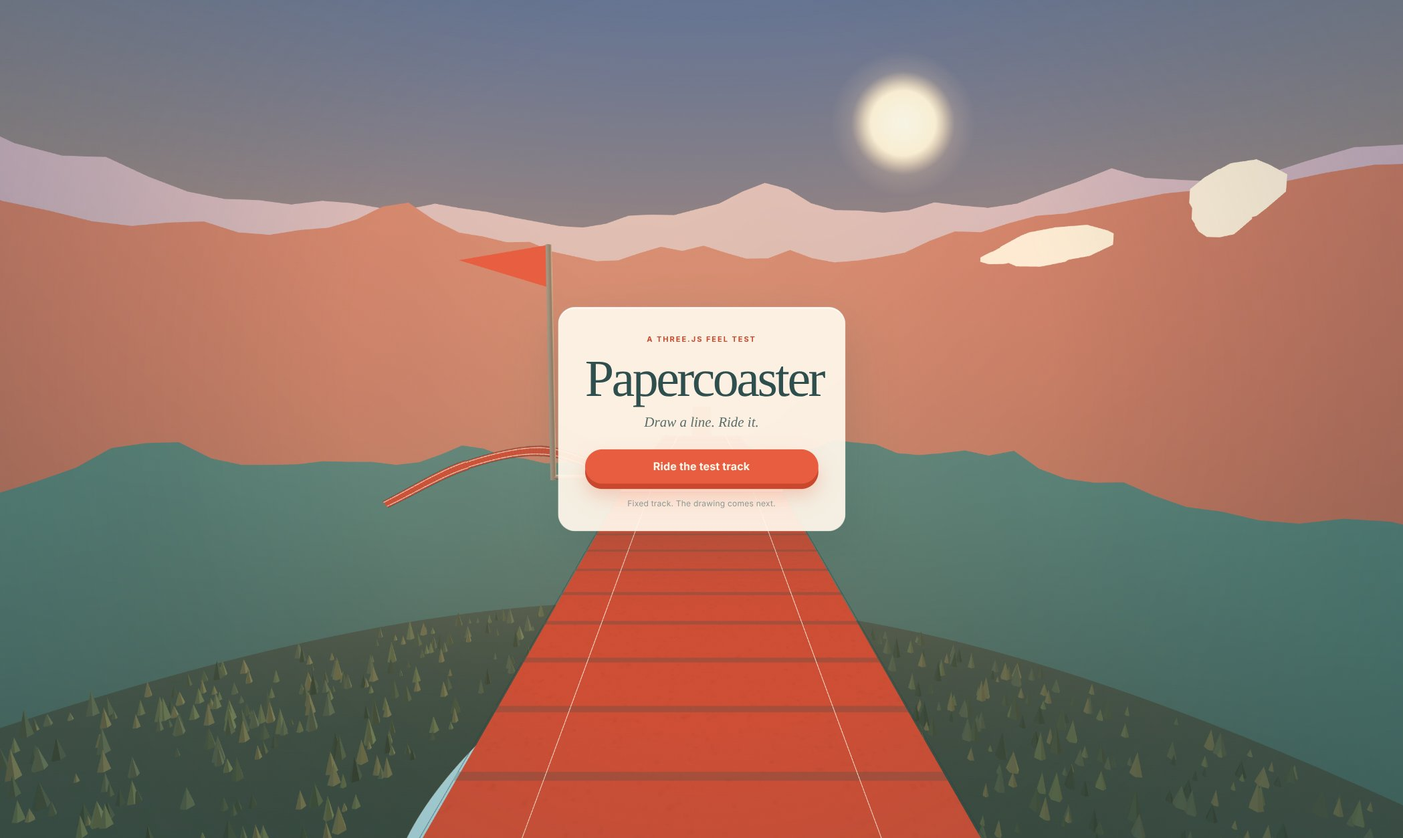
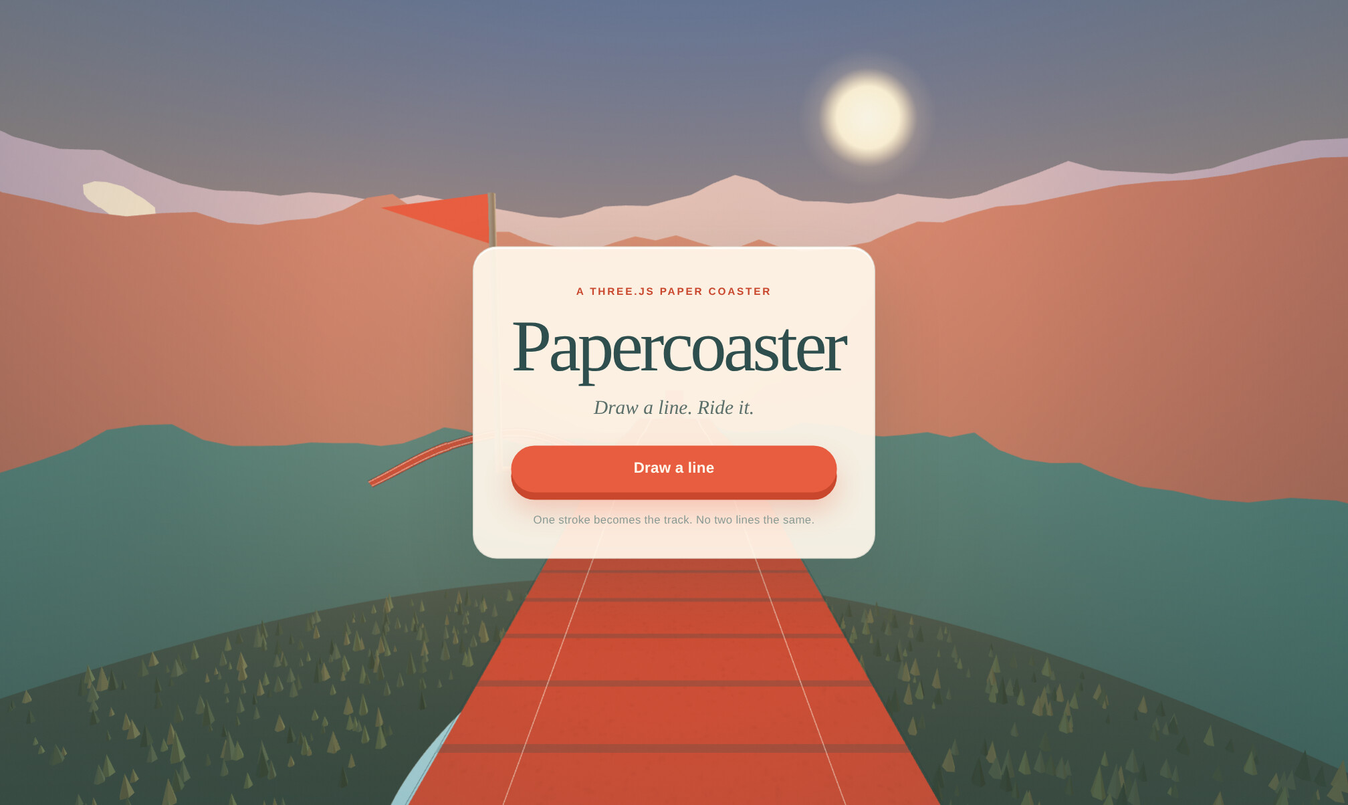
docs: record the drawing layer

diff --git a/docs/design.md b/docs/design.md
@@ -4,7 +4,7 @@
 
 A rollercoaster is a line with physics. Papercoaster makes the line the input: one stroke becomes the track, the terrain, and the ride. The player draws, then feels their own drawing in their stomach.
 
-The current build is the v0.1.0 feel test. The track is fixed. The drawing layer is the next milestone.
+The current build adds the drawing layer on top of the v0.1.0 feel test.
 
 ## The experience
 
@@ -13,26 +13,30 @@ The current build is the v0.1.0 feel test. The track is fixed. The drawing layer
 3. Ride it in first person.
 4. Share the track as a link.
 
-The feel test covers steps 2 and 3 with a fixed track.
+The drawing layer covers steps 1 to 3. Sharing is a later milestone.
 
 ## The track
 
 `src/track.js` owns the geometry.
 
+- `Track` is data-driven. `new Track(points)` accepts `Vector3` values or `[x, y, z]` arrays. `TEST_TRACK_POINTS` and `createTestTrack()` keep the fixed feel-test track for the `?t=` views and for comparison. They are not a user-facing mode.
 - Control points are a `CatmullRomCurve3` with `centripetal` parameterization. This avoids the overshoot that makes loops clip.
 - `arcLengthDivisions = 4000`. All sampling uses `getPointAt(u)` and `getTangentAt(u)`, so `u` is arc length.
+- The sample count scales with the track: `clamp(ceil(length * 8), 240, 1800)`. A short drawn line still gets enough frames for a smooth ribbon.
 - The ride advances `t` by `speed * dt / length`, so speed maps directly to distance.
-- Frames are built with parallel transport, not Frenet frames. Frenet frames twist and flip at the loop. Parallel transport projects the previous up vector onto the plane perpendicular to the tangent.
-- Bank comes from horizontal curvature: `clamp(curvature * 24^2 * 0.01 * horizontal, -0.6, 0.6)`. The banked up vector is the transport up rotated toward the right vector.
+- A drawn side-view track has `x = 0` at every point. These planar tracks use the in-plane normal `up = normalize(0, tangent.z, -tangent.y)` and `right = +X`, with zero bank. This keeps a loop smooth through vertical tangents. Parallel transport has a degenerate projection at a vertical tangent, and the bank formula spikes when the heading flips, so both are wrong for this case.
+- Tracks with depth (the test track, and any later stroke with world X) still use parallel transport. Frenet frames twist and flip at the loop, so they are never used. Parallel transport projects the previous up vector onto the plane perpendicular to the tangent.
+- Bank for depth tracks comes from horizontal curvature: `clamp(curvature * 24^2 * 0.01 * horizontal, -0.6, 0.6)`. The banked up vector is the transport up rotated toward the right vector.
 - The ribbon is 2.6 units wide. The rails sit at ±0.82. The ties are thin quads every 4 samples. The start band is a cream quad from `u = 0.035` to `0.0375`.
 - The track uses `MeshBasicMaterial` with a procedural paper texture. A lit material goes dark at the top of the loop, which kills the read. Flat paper shading keeps the coral consistent upside down.
+- `Track.dispose()` releases every child geometry, every material, and any material texture. A redraw builds the next track before disposing the old one, so a new line never inherits stale buffers or a canvas texture.
 
 ## The ride
 
 `src/ride.js` owns the camera.
 
 - Speed comes from energy conservation: `v = sqrt(max(vMin^2, v0^2 + 2g(h0 - h)))`, smoothed with `1 - exp(-dt * 4)`, with light drag and a 52 m/s cap. The minimum speed is a deliberate cheat so loops always complete.
-- The camera sits 2.2 units above the track. It looks ahead by `clamp(0.02 + speed * 0.0008, 0.02, 0.06)` of the track, and its up vector is the track's banked up.
+- The camera sits 2.2 units above the track. It looks ahead by `clamp(0.02 + speed * 0.0008, 0.02, 0.06)` of the track, and its up vector is the track's up. For a planar drawn track that up comes from the in-plane normal, so a drawn loop rolls the camera through upside down without banking the ribbon.
 - FOV is `68 + (speed / 52) * 16`. The interpolation is frame-rate independent.
 - Comfort mode blends the up vector toward world up by 0.68, projects it perpendicular to the view, and holds the FOV at 68. It is the horizon lock for motion-sensitive riders.
 - The idle camera bobs at the start line. The debug freeze (`?t=`) uses a nominal speed, so the FOV and bank are representative.
@@ -47,7 +51,7 @@ The feel test covers steps 2 and 3 with a fixed track.
 - River: a ribbon built from a `CatmullRomCurve3` on the valley floor, with cream bank lines.
 - Forest: 2,200 instanced cones with per-instance colors, scattered inside the near ring and kept away from the river.
 - Clouds: flat cream clusters of low-poly spheres, placed high and far so they do not block the track.
-- Start flag: a small pole on an outrigger at the track's edge. It is hard-coded to the test track's start. The drawing layer must move or remove it.
+- Start flag: a small pole on an outrigger. `placeStartFlag(track)` puts it on the start band frame at `u = 0.035`, along the frame's right vector at `TRACK_WIDTH / 2 + 1.6`, and orients the outrigger with the frame basis. The flag group is retained so it moves with each drawn track.
 - Lights: a warm hemisphere, a key directional, and a cool fill. Most paper surfaces are `MeshBasicMaterial`; the forest and ground are lit.
 
 ## The look
@@ -56,34 +60,36 @@ The feel test covers steps 2 and 3 with a fixed track.
 - No external assets. Textures are canvas-generated. Geometry is procedural.
 - The accent is coral. The track owns it. Everything else is a supporting color.
 - Fog is `FogExp2(0xffd3a3, 0.0015)`. The paper layers stay crisp, then fade into the sky.
-- The UI is a cream card with a serif title, a coral button, a speed pill, a progress bar, and a mute control.
+- The UI is a cream card with a serif title, a coral button, a speed pill, a progress bar, and a mute control. The draw screen is ruled paper with a coral stroke and a cream tool card.
 
 ## The drawing layer
 
-The plan is in `docs/next.md`. The key design decisions:
+`src/draw.js` owns the screen. `src/stroke.js` owns the math and has no DOM access.
 
-- Draw in a side view. Normalize the canvas to `u` left to right and `v` bottom to top. Map `z = lerp(-30, 170, u)`, `y = lerp(6, 70, v)`, and `x = 0`. The world center is around `z = 50`; the ground is at `y = -75`. This is a starting rule; clamp the mapped points to the valley.
-- A side-view track has no horizontal curvature, so v1 has no banked turns. The current bank formula should be quiet at the loop because the heading flip happens where the horizontal factor is near zero, but test the loop entry and exit for a hard roll. A later milestone can add depth by mapping a second input (pressure, stroke speed, or a slider) to world X.
-- The start band is already track-relative. Only the flag needs the start-band placement.
-- The draw screen is pointer and touch. The buttons and the end screen are keyboard accessible.
-- `?t=` works on a drawn track only in the same session. The stroke is not encoded yet; sharing is a later milestone.
+- The intro card opens the draw screen. The overlay canvas captures one primary pointer stroke with pointer capture. The stroke is pointer and touch only; the buttons are native and keyboard accessible.
+- The draw screen has Clear and Ride. Clear removes the stroke and returns to the draw state. Ride builds a new `Track`, disposes the old one, moves the flag, assigns `ride.track`, and restarts. The end screen has Redraw and Ride again.
+- While the draw screen is open, the 3D scene is paused. The overlay covers it, so rendering the diorama underneath would only spend frames.
+- The pipeline drops near-duplicate samples (0.75 canvas px), smooths with two Chaikin passes, resamples to 2 world units, and maps the side view to the valley: `z = lerp(-30, 170, u)`, `y = lerp(6, 70, v)`, `x = 0`. The world center is around `z = 50`; the ground is at `y = -75`.
+- A stroke is rejected if it leaves the canvas, has a segment longer than 40 world units, or measures less than 60 world units. Flat strokes are allowed and produce a calm ride. The rejection reason is shown under the buttons.
+- The single stroke rule is enforced after a valid stroke: further pointer input is ignored until Clear. An invalid attempt clears itself so the player can try again immediately.
+- `?t=` freezes the test track on load. The query is read again when a drawn track starts, so a same-session URL change freezes the drawn line. A reload cannot reconstruct the stroke yet.
 - The fixed points stay as `createTestTrack()` for tests and comparison, not a user-facing mode.
 
 ## Testing
 
-The automated gates are `npm run verify` (format, lint, build) and `npm run test` (Playwright). The smoke test covers the start screen, the ride start, the speed HUD, the progress bar, the three freeze views, and the full ride restart. It fails on any page error or console error during the start flow.
+The automated gates are `npm run verify` (format, lint, `node --test`, build) and `npm run test` (Playwright). The unit tests cover the stroke pipeline and its rejection rules. The smoke test covers the intro, the draw screen, a rejected short stroke, Clear, a drawn ride, the speed HUD, the progress bar, a same-session drawn freeze, the three test-track freeze views, and the full ride restart with R. It fails on any page error or console error during the draw and start flow.
 
-The visual composition is still checked by eye with the `?t` freezes. Background tabs throttle animation, so the ride feel must be checked in a foreground tab. When `src/stroke.js` lands, add `node --test` coverage and include it in `verify`.
+The visual composition is still checked by eye with the `?t` freezes and with drawn loop freezes. Background tabs throttle animation, so the ride feel must be checked in a foreground tab. The test-track freezes stay available through `?t=` after reload.
 
 ## Constraints
 
 - Single-page Vite app. No backend, no login, no external assets.
 - The ride is a spline plus a speed model. No physics engine.
-- The build, lint, format, and Playwright smoke test are the automated gates. The visual composition is still manual.
-- The app works on a laptop trackpad and on a touch screen. The ride is automatic; the drawing is the only input.
+- The build, lint, format, unit test, and Playwright smoke test are the automated gates. The visual composition is still manual.
+- The app works on a laptop trackpad and on a touch screen. The ride is automatic; drawing is the only input.
 
 ## Open questions
 
-- Should a side-view track get a synthetic bank from vertical curvature, or wait for a depth input?
+- Should side-view tracks get a synthetic bank from vertical curvature, or wait for a depth input? v1 uses zero bank and relies on the in-plane normal for the loop.
 - How should the drawn stroke be encoded in the URL, and how short can the link stay?
 - How should the thrill score weight speed, airtime, inversions, near misses, and smoothness?

diff --git a/docs/next.md b/docs/next.md
@@ -1,53 +1,47 @@
-# Next milestone: the drawing layer
+# Milestone: the drawing layer
+
+**Status:** landed on `feat/drawing-layer`, awaiting review. The next milestone is the thrill score and sharing.
 
 ## Goal
 
-Replace the fixed test track with a track drawn in one stroke, while keeping the current camera feel. The player draws a line, the line becomes a coaster, and the ride starts.
+Replace the fixed test track with a track drawn in one stroke, while keeping the camera feel. The player draws a line, the line becomes a coaster, and the ride starts.
 
 ## Definition of done
 
-- A new "Draw" screen captures one pointer stroke from press to release, including touch.
-- The stroke is smoothed, resampled, and mapped into a rideable spline.
-- The ride uses the same camera rig and speed model as the test track.
-- A stroke with a loop produces a loop. The camera goes upside down and the track stays coral.
-- The start band stays track-relative. The start flag is placed from the start band's frame.
-- `?t=` freezes work on the drawn track in the same session. A reload does not reconstruct the stroke yet.
-- `npm run verify` and `npm run test` pass.
-- The Playwright smoke test covers the new draw screen, the start flow, the three freeze views, and the full ride restart.
-- Clear, Redraw, Ride, and the end screen are keyboard accessible. The stroke itself is pointer or touch.
-- The README screenshots and `public/og.jpg` are updated if the hero visuals change.
+- [x] A Draw screen captures one pointer stroke from press to release, including touch.
+- [x] The stroke is smoothed, resampled, and mapped into a rideable spline.
+- [x] The ride uses the same camera rig and speed model as the test track.
+- [x] A stroke with a loop produces a loop. The camera goes upside down and the track stays coral.
+- [x] The start band is track-relative. The start flag is placed from the start band's frame.
+- [x] `?t=` freezes work on the drawn track in the same session. The query is read again when a drawn track starts. A reload does not reconstruct the stroke.
+- [x] `npm run verify` and `npm run test` pass.
+- [x] The Playwright smoke test covers the draw screen, the start flow, the three test-track freeze views, a drawn freeze, and the full ride restart.
+- [x] Clear, Redraw, Ride, and the end screen are keyboard accessible. The stroke itself is pointer or touch.
+- [ ] The README screenshots and `public/og.jpg` are updated if the hero visuals change. The start screenshot is updated; the social image still shows the same drop.
 
-## Build order
+## What landed
 
-1. **Make the track data-driven and disposable.** Move the fixed points out of the constructor into `TEST_TRACK_POINTS` and `createTestTrack()`. Add `constructor(points)`. Add `Track.dispose()` to release the ribbon, tie, rail, and line geometries, the materials, and the canvas texture. Every redraw otherwise leaks a texture and buffers.
-2. **Build the pure stroke module first.** Add `src/stroke.js` with no DOM access: drop near-duplicate points, smooth with Chaikin or a moving average, resample to even spacing, reject short or jumpy strokes, map the side view to world points, and return the point array. Add a `test:unit` script with `node --test` and include it in `verify` before any UI work.
-3. **Add the draw screen.** New `src/draw.js` plus markup and styles: full-screen overlay canvas, pointer capture, Draw, Clear, Redraw, and Ride. The start card becomes the intro. The stroke is pointer and touch only.
-4. **Map to 3D.** Normalize the canvas to `u` left to right and `v` bottom to top. Map `z = lerp(-30, 170, u)`, `y = lerp(6, 70, v)`, and `x = 0`. The world center is around `z = 50`; the ground is at `y = -75`. This is a starting rule. Clamp points to the valley.
-5. **Place the start markers.** Keep the start band track-relative. Place the flag from the start band's frame at `u = 0.035`: position it along the frame's right vector at `TRACK_WIDTH / 2 + arm length`, and orient the outrigger to that right vector. Retain the flag group reference so it can move.
-6. **Wire the ride.** Change the `track` binding in `src/main.js` to `let`, rebuild the track on Ride, call `track.dispose()` on the old one, assign `ride.track`, and call `ride.reset()`. Extend the state machine with draw and drawn states. Bypass the start card for `?t=`, with the same-session limit from the definition of done.
-7. **Test the feel.** Draw a drop, a loop, a flat line, a scribble, and a very short line. Tune the smoothing, minimum speed, and thresholds.
-8. **Polish.** Enforce the single stroke rule, add the end screen with the track length, and update the README screenshots if the visuals change. The thrill score and URL sharing stay in the next milestone.
-9. **Test the flow.** Keep the `#app canvas` locator so the overlay canvas does not create a strict-mode match. Add a draw and ride test. Keep the three freeze views and the full ride restart test.
+1. **Data-driven track.** `Track` takes a point array. `TEST_TRACK_POINTS` and `createTestTrack()` hold the feel-test track. `Track.dispose()` releases every geometry, material, and the canvas texture.
+2. **Pure stroke module.** `src/stroke.js` drops near-duplicates, smooths with Chaikin, resamples to 2 world units, rejects short, jumpy, and off-canvas strokes, and maps the side view into the valley. `npm run test:unit` uses `node --test` and runs inside `verify`.
+3. **Draw screen.** `src/draw.js` owns the overlay canvas, pointer capture, the single stroke rule, and the coral preview. `index.html` and `src/style.css` add the intro, draw, and end screens.
+4. **World mapping.** `z = lerp(-30, 170, u)`, `y = lerp(6, 70, v)`, `x = 0`. The mapped points stay inside the near mountain ring and above the ground plane.
+5. **Start markers.** The start band is still track-relative. `World.placeStartFlag(track)` places the flag from the start band frame at `u = 0.035` and reorients the outrigger.
+6. **Ride wiring.** `main.js` builds a new `Track` on Ride, keeps the old one alive until the new one exists, then disposes it, moves the flag, assigns `ride.track`, and resets the ride. The state machine is `idle`, `draw`, `drawn`, `riding`, `done`, and `frozen`.
+7. **Feel pass.** A drawn loop inverts the camera. The ribbon stays coral. Flat strokes produce a calm ride.
+8. **Polish.** The single stroke rule is enforced. The end screen shows top speed and track length. Clear and Redraw are wired.
+9. **Test flow.** The Playwright suite uses `#app canvas` so the overlay canvas cannot create a strict-mode match.
 
-## Design rules
+## Decisions
 
-- Reject strokes shorter than 60 world units, strokes with a single segment longer than 40 world units, and strokes that leave the canvas. Allow flat strokes; they produce a calm ride.
-- Side-view tracks have no horizontal curvature, so v1 has no banked turns. The current bank formula should be quiet at the loop because the heading flip happens where the horizontal factor is near zero, but test the loop entry and exit for a hard roll. A depth input can add banking later.
-- The start band is already track-relative. Only the flag needs the start-band placement.
-- The draw screen is pointer and touch. The buttons and the end screen are keyboard accessible.
-- The smoke test's canvas locator must be `#app canvas`, because the draw overlay adds a second canvas.
+- A side-view track is planar (`x = 0`). It uses the in-plane normal `up = normalize(0, tangent.z, -tangent.y)`, `right = +X`, and zero bank. Parallel transport is kept for tracks with depth, including the test track. This avoids the fallback flip and the bank spike that a vertical loop would otherwise cause.
+- The draw screen pauses the 3D render. The overlay is nearly opaque, so this saves frames while drawing.
+- A rejected stroke clears itself and shows the reason. A valid stroke locks further pointer input until Clear.
+- The start card is the intro. The test track has no user-facing button. `?t=` still bypasses the intro and shows the test track, because a reload has no stroke to rebuild.
 
-## Risks
-
-- A self-intersecting stroke can create a spline that clips or twists. Test loops first.
-- A very short stroke makes the camera look-ahead too large relative to the track. Clamp the track length and the look-ahead.
-- The drawing canvas and the 3D canvas need to share pointer events cleanly. Use one overlay canvas with `pointer-events: auto`, and pause the idle camera while drawing.
-- The start flag's outrigger is tied to the test track's edge. Recompute it from the start band's right vector and the track width.
-- The world placement constants are a starting point. A stroke near the top of the canvas can end up above the rings or inside a mountain. Clamp the mapped `y` and `z` to the valley.
-
-## After this
+## Next
 
 - Thrill score: max speed, airtime, inversions, near misses, smoothness.
 - Share: encode the stroke in the URL hash, compress quantized deltas.
 - Daily prompt: a date seed and a one-line challenge.
 - Postcard: pause, orbit, export a paper-framed PNG.
+- Depth input: pressure, stroke speed, or a slider mapped to world X, which would also bring banked turns back.

diff --git a/AGENTS.md b/AGENTS.md
@@ -2,9 +2,9 @@
 
 ## What this is
 
-Papercoaster: draw one line, it becomes a rollercoaster through a paper diorama, then ride it. The current build is the v0.1.0 feel test. The track is fixed. The next milestone is the drawing layer.
+Papercoaster: draw one line, it becomes a rollercoaster through a paper diorama, then ride it. The current build has the drawing layer on top of the v0.1.0 feel test. The next milestone is the thrill score and sharing.
 
-Read `README.md` for the product and commands. Read `docs/design.md` before changing the camera, track, or world. Read `docs/next.md` before starting the drawing layer.
+Read `README.md` for the product and commands. Read `docs/design.md` before changing the camera, track, or world. Read `docs/next.md` for what landed and what comes next.
 
 ## First 10 minutes
 
@@ -12,32 +12,33 @@ Read `README.md` for the product and commands. Read `docs/design.md` before chan
 2. `npm run verify`
 3. `npx playwright install chromium` once per machine
 4. `npm run test`
-5. `npm run dev`, then check the four `?t` views below
-6. Read `docs/next.md` before the drawing layer
+5. `npm run dev`, draw a line, ride it, then check the four `?t` views below for the test track
+6. Read `docs/next.md` for the remaining milestones
 
 Done when `verify` and `test` pass and the four views look right.
 
 ## Run and verify
 
-- `npm run verify` runs the format check, lint, and build. This is the fast gate.
+- `npm run verify` runs the format check, lint, unit tests, and build. This is the fast gate.
 - `npm run test` runs the Playwright smoke test. Install Chromium once with `npx playwright install chromium`.
+- `npm run test:unit` runs the pure `src/stroke.js` tests with `node --test`.
 - `npm run dev` starts Vite at http://localhost:5173.
 - `npm install` for a local checkout. `npm ci` for a clean, reproducible install.
-- Visual check: open the app, click "Ride the test track", and inspect four moments:
-  - Start: the track, flag, layered mountains, and river.
+- Visual check: open the app, draw a line, and ride it. Then open the test track freezes and inspect four moments:
+  - Start: `?t=0` shows the track, flag, layered mountains, and river.
   - Drop: `?t=0.18` shows the red ribbon, river, and forest from above.
   - Loop: `?t=0.48` is upside down. The track stays coral.
   - Turn: `?t=0.66` banks into the turn.
 - The console should be clean. The favicon is inline, so a favicon 404 means the HTML regressed.
-- The smoke test covers the start flow, the three freeze views, and the full ride restart. The visual composition is still checked by eye.
+- The smoke test covers the intro, the draw screen, a rejected short stroke, Clear, a drawn ride, a drawn freeze, the test-track freeze views, and the full ride restart. The visual composition is still checked by eye.
 
-The ride runs at full speed only in an active tab. Background tabs throttle `requestAnimationFrame`. Use the `?t` freezes for layout checks and a foreground tab for feel checks.
+The ride runs at full speed only in an active tab. Background tabs throttle `requestAnimationFrame`. Use the `?t` freezes for layout checks and a foreground tab for feel checks. A reload cannot reconstruct a drawn stroke, so `?t` on load uses the test track.
 
 ## Feel rules
 
 The ride is a spline plus a speed model, not a physics simulation. Keep the camera first: if a change hurts the drop, loop, or turn, revert it.
 
-- The camera sits 2.2 units above the track, looks ahead along the curve, and rolls with the track's bank.
+- The camera sits 2.2 units above the track, looks ahead along the curve, and rolls with the track frame. A drawn side-view track has no bank, so its roll comes from the in-plane normal.
 - `C` toggles comfort view, and `prefers-reduced-motion` enables it by default. Keep both working.
 - The track stays on `MeshBasicMaterial` with a procedural paper texture. A lit material goes dark at the top of the loop.
 - The paper look is flat colors, layered silhouettes, and no external assets. Generate new textures and geometry in code.
@@ -46,17 +47,20 @@ The ride is a spline plus a speed model, not a physics simulation. Keep the came
 
 ## Architecture map
 
-- `src/main.js`: renderer, scene, UI wiring, ride loop, audio, reduced motion, debug freeze.
-- `src/track.js`: fixed control points, arc-length sampling, parallel transport frames, banking, ribbon, ties, rails, start band.
+- `src/main.js`: renderer, scene, UI wiring, state machine, ride loop, audio, reduced motion, debug freeze.
+- `src/track.js`: data-driven track, `TEST_TRACK_POINTS` and `createTestTrack()`, arc-length sampling, planar and parallel-transport frames, banking, ribbon, ties, rails, start band, `dispose()`.
+- `src/stroke.js`: pure stroke pipeline, no DOM. Dedupe, Chaikin smoothing, resampling, rejection reasons, side-view to world mapping.
+- `src/draw.js`: draw overlay canvas, pointer capture, single stroke rule, coral preview.
 - `src/ride.js`: energy speed model, camera rig, FOV, comfort mode, idle bob, freeze.
 - `src/world.js`: sky, sun, mountain rings, river, forest, clouds, start flag, lights.
-- `src/style.css`: title card, HUD, progress bar, responsive layout, reduced motion.
+- `src/style.css`: intro card, draw screen, HUD, progress bar, end screen, responsive layout, reduced motion.
 - `playwright.config.js`: browser test config and dev server.
-- `tests/smoke.spec.js`: the start flow and the loop freeze.
+- `tests/smoke.spec.js`: the draw flow, freezes, and the full ride restart.
+- `test/stroke.test.js`: pure unit tests for `src/stroke.js`.
 - `docs/design.md`: the math and the reasons behind it.
-- `docs/next.md`: the drawing-layer milestone with acceptance criteria and build order.
+- `docs/next.md`: the landed drawing layer and the next milestones.
 
-Track frames use parallel transport, not Frenet frames, because Frenet twists and flips at the loop. If you change the track points, the frames regenerate from `_computeFrames`. `getFrameAt(u)` is arc-length parameterized; the ride's `t` is a fraction of the total length, so `speed * dt / length` is correct.
+Track frames use parallel transport for tracks with depth, because Frenet twists and flips at the loop. A drawn side-view track is planar (`x = 0`), so it uses the in-plane normal instead. If you change the track points, the frames regenerate from `_computeFrames`. `getFrameAt(u)` is arc-length parameterized; the ride's `t` is a fraction of the total length, so `speed * dt / length` is correct.
 
 ## Conventions
 
@@ -64,7 +68,8 @@ Track frames use parallel transport, not Frenet frames, because Frenet twists an
 - Generate textures and geometry in code. The app ships with no external assets.
 - Keep it a single-page Vite app with no backend and no login.
 - Use `?t=` freezes for visual checks. They hide the UI.
-- Update the Playwright smoke test when a user-visible flow changes.
+- A drawn track is planar. Keep its frame in-plane with zero bank until a depth input lands.
+- Update the Playwright smoke test and the unit tests when a user-visible flow or the stroke rules change.
 - Update `docs/design.md` when a system changes. Update `docs/next.md` when a milestone lands.
 - Keep the screenshots in `shots/` and the social image at `public/og.jpg` current when the hero visuals change.
 
@@ -77,4 +82,4 @@ Track frames use parallel transport, not Frenet frames, because Frenet twists an
 
 ## Next milestone
 
-Read `docs/next.md`. Replace the fixed track with a single-stroke drawn track while keeping the current camera feel. The first acceptance check is simple: draw a line, ride it, and the drop still makes you smile.
+Read `docs/next.md`. The drawing layer is landed. The next milestones are the thrill score and sharing the stroke in the URL. The acceptance check stays simple: draw a line, ride it, and the drop still makes you smile.

diff --git a/README.md b/README.md
@@ -9,11 +9,13 @@ Draw a line. Ride it.
 
 A three.js side project: turn a single stroke into a rollercoaster through a paper diorama, then ride it in first person.
 
-**Status:** v0.1.0 feel test. The track is fixed. The drawing layer is next.
+**Status:** the drawing layer is landed on top of the v0.1.0 feel test. Draw a line, then ride it.
 
 **Live demo:** https://jimmerioles.github.io/papercoaster/
 
 ![Papercoaster start screen](shots/start.jpg)
+
+![The draw screen](shots/draw.jpg)
 
 ![The first drop](shots/drop.jpg)
 
@@ -30,18 +32,21 @@ Open http://localhost:5173.
 
 ## Controls
 
-- Click "Ride the test track" to start.
+- Click "Draw a line", then press and drag one stroke. The stroke becomes the track.
+- Clear removes the stroke. Ride the line builds the track and starts the ride.
 - `C` toggles comfort view (horizon lock and fixed FOV). It turns on by default when the system prefers reduced motion.
 - `R` restarts the ride while riding or from the end screen.
-- Add `?t=0.18` for the drop, `?t=0.48` for the loop, or `?t=0.66` for the turn to freeze the camera. The UI is hidden in these views.
+- Add `?t=0.18` for the drop, `?t=0.48` for the loop, or `?t=0.66` for the turn to freeze the test track. The UI is hidden in these views. A reload cannot rebuild a drawn stroke, so `?t` on load uses the test track.
 
-## What is in the test
+## What is in it
 
-- A fixed track with a drop, a vertical loop, and a banked turn.
-- A POV camera with speed-based FOV, look-ahead, and banking.
-- A paper world: layered mountain rings, a winding river, a paper forest, clouds, a sun, and a start flag.
+- One-stroke drawing on a pointer or touch screen, with Clear and Redraw.
+- A stroke pipeline: dedupe, Chaikin smoothing, even resampling, and rejection of short, jumpy, or off-canvas lines.
+- A drawn track with a drop, a loop, or a flat run, plus the same POV camera, speed model, and comfort view as the test track.
+- A paper world: layered mountain rings, a winding river, a paper forest, clouds, a sun, and a start flag that moves with the start band.
 - A speed HUD, progress bar, sound toggle, and procedural wind.
-- A Playwright smoke test for the start flow, the three freeze views, and the full ride restart.
+- A test track behind `?t=` for freeze views, and `createTestTrack()` for tests.
+- Unit tests for the stroke pipeline and a Playwright smoke test for the draw flow, freezes, and full ride restart.
 - Debug frames: [loop](shots/loop.jpg), [banked turn](shots/turn.jpg).
 
 ## Development
@@ -52,7 +57,7 @@ npx playwright install chromium
 npm run test
 ```
 
-`npm run verify` runs the format check, lint, and build. `npm run test` runs the Playwright smoke test. `npm run test:ui` opens the interactive runner. The Chromium install is once per machine. `npm run format` rewrites the files with Prettier. The production build uses the `/papercoaster/` base for GitHub Pages.
+`npm run verify` runs the format check, lint, unit tests, and build. `npm run test` runs the Playwright smoke test. `npm run test:unit` runs the pure stroke tests with `node --test`. `npm run test:ui` opens the interactive runner. The Chromium install is once per machine. `npm run format` rewrites the files with Prettier. The production build uses the `/papercoaster/` base for GitHub Pages.
 
 ## Deploy
 
@@ -61,17 +66,18 @@ Pushes to `main` run CI and deploy `dist/` to GitHub Pages through `.github/work
 ## Handoff
 
 - **Agents:** read [`AGENTS.md`](AGENTS.md) first. It has the run, verify, feel rules, and architecture map.
-- **Design:** [`docs/design.md`](docs/design.md) has the camera, track, world, and drawing-layer notes.
-- **Next:** [`docs/next.md`](docs/next.md) is the drawing-layer milestone with acceptance criteria.
-- **Tests:** [`tests/smoke.spec.js`](tests/smoke.spec.js) is the browser smoke test.
+- **Design:** [`docs/design.md`](docs/design.md) has the camera, track, stroke, world, and drawing-layer notes.
+- **Next:** [`docs/next.md`](docs/next.md) has what landed and the next milestones.
+- **Tests:** [`tests/smoke.spec.js`](tests/smoke.spec.js) is the browser smoke test, and [`test/stroke.test.js`](test/stroke.test.js) covers the stroke pipeline.
 - **Release:** [`docs/releases/v0.1.0.md`](docs/releases/v0.1.0.md) is the feel-test release note.
 
 ## Known rough edges
 
-- The track is fixed. The drawing layer is the next milestone.
+- A reload does not reconstruct a drawn stroke. Sharing is the next milestone.
 - Background tabs throttle the ride.
-- The title card hides the first drop until the ride starts.
-- The Playwright smoke test covers the start flow, the three freeze views, and the full ride restart. The visual composition still needs manual QA.
+- The intro card hides the first drop until the ride starts.
+- A side-view track has no banked turns. A depth input can add them later.
+- The Playwright smoke test covers the draw flow and the freeze views. The visual composition still needs manual QA.
 
 ## Tech
 
